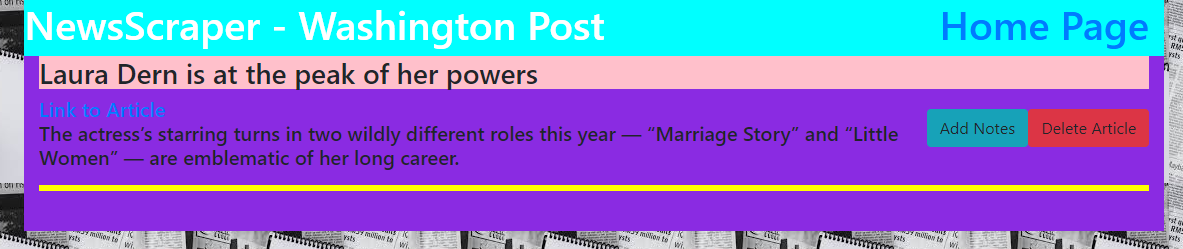
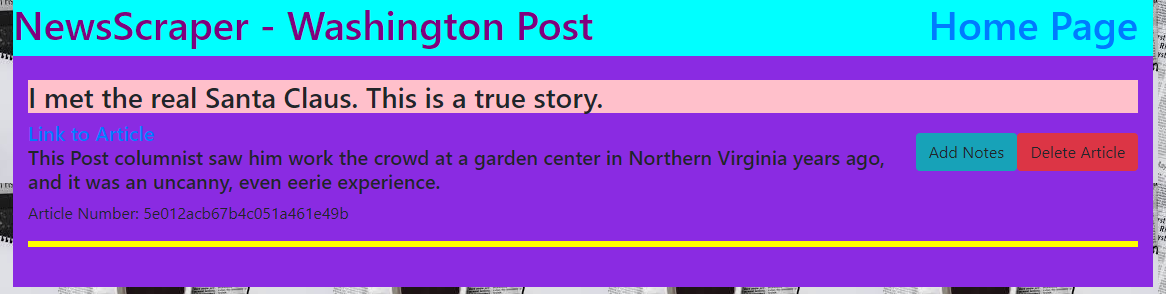
article id added and note placement changed

diff --git a/public/assets/javascript/saved.js b/public/assets/javascript/saved.js
@@ -65,6 +65,7 @@ $(document).ready(function () {
         for (var i = 0; i < articles.length; i++) {
             var panel =
                 $([
+                    '<br>',
                     '<div class="panel panel-default panel-article">',
                     '<div class="panel-heading">',
                     '<h3>',
@@ -85,13 +86,14 @@ $(document).ready(function () {
                     articles[i].synopsis,
                     '</h5>',
                     '</div>',
+                    '<p>Article Number: ' + articles[i]._id + '</p>' ,
                     '<hr>',
                     '</div>'
                 ].join(''));
             console.log('articles._id');
-            console.log(articles[i]._id);
+            // console.log(articles[i]._id);
             panel.data('_id', articles[i]._id);
-            panel.addClass(articles._id);
+            panel.addClass(articles[i]._id.toString());
             // append panel to container
             articleContainer.append(panel);
             console.log('article panel');
@@ -134,7 +136,6 @@ $(document).ready(function () {
         var selectedArticle = $(this).parents('.panel').data();
         // construct note entry
         var noteStructure = $([
-
             '<div class="container-fluid text-center">',
             '<h4 class="note-head">Notes for Article: ',
             selectedArticle._id,
@@ -153,15 +154,16 @@ $(document).ready(function () {
     // function addNotes adds a note to the article via the associate button
     function displayNotes(notes) {
         console.log('displaying notes');
-        console.log(notes[0]._id);
-        console.log(notes[0]._articleId);
-        console.log(notes[0].noteText);
+        // console.log(notes[0]._id);
+        // console.log(notes[0]._articleId);
+        // console.log(notes[0].noteText);
         // var selectedArticle = $(this).parents('.panel').data();
         // console.log($(this).parents('.panel'));
         for (j = 0; j < notes.length; j++) {
 
             // construct display
             var panel = $([
+                '<br>',
                 '<div class="panel panel-default">',
                 '<div class="panel-heading">',
                 '<h4>Notes for Article: ',
@@ -180,17 +182,16 @@ $(document).ready(function () {
             panel.data('_id', notes[j]._id);
             console.log('note panel');
             console.log(panel);
-            noteContainer.append(panel);
-            $(this).parents('.panel').append(panel);
+            // noteContainer.append(panel);
             var classId = "'." + notes[j]._articleId + "'";
-            var search = classId.toString();
-            console.log(search);
-            for (k = 0; k < 5; k++)
-            if ($('.panel-article').data() == ('_id=' + notes[j]._articleId)) {
-                console.log('found it');
-            }
-            else console.log('not here');
-            // $(search).append(panel);
+            // var search = classId.toString();
+            // $(classId).insertAfter(panel);
+            // $(panel).insertAfter('.5e004787442ad31cc471ed00');
+            $('.' + notes[j]._articleId).append(panel);
+            // console.log('panel');
+            // console.log('classId');
+            // console.log(classId);
+            // console.log($('.' + notes[j]._articleId).append(panel));
         }
     }
 

diff --git a/README.md b/README.md
@@ -26,7 +26,7 @@
 
 ![picture](/public/assets/images/add-note.png)
 
-#### When the save note button is clicked, the note is saved to the database and the page is refreshed to show the new note. The notes are collected at the top of the saved page so that the user does not need to search the page to find a note.
+#### When the save note button is clicked, the note is saved to the database and the page is refreshed to show the new note. The notes are appended to the article so that the user does not need to search the page to find a note.
 
 ![picture](/public/assets/images/note-added.png)
 
@@ -34,7 +34,7 @@
 
 ![picture](/public/assets/images/note-deleted.png)
 
-#### If the user want to delete an article, the 'Delete Article' button can be clicked. The article will be deleted and the page refreshed.
+#### If the user want to delete an article, the 'Delete Article' button can be clicked. The article and its associated notes will be deleted and the page refreshed.
 
 ![picture](/public/assets/images/article-deleted.png)
 
